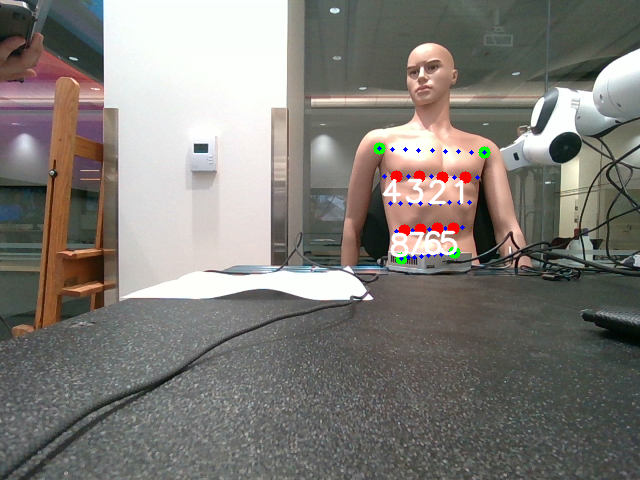
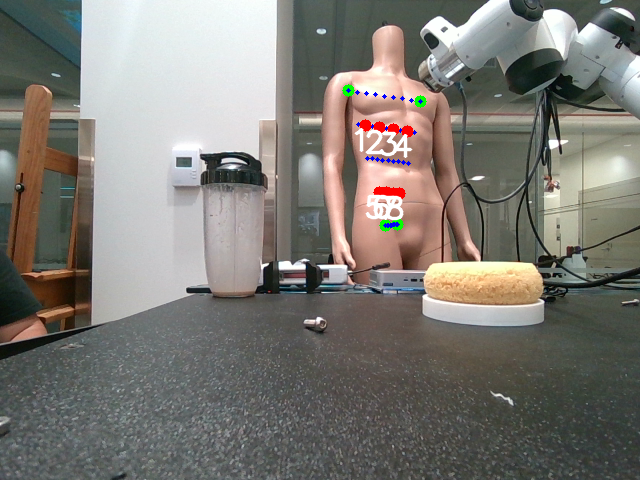
new

diff --git a/utils/scrub_point_3d_translated.py b/utils/scrub_point_3d_translated.py
@@ -1,0 +1,183 @@
+## License: Apache 2.0. See LICENSE file in root directory.
+## Copyright(c) 2015-2017 Intel Corporation. All Rights Reserved.
+
+import time
+import numpy as np
+import cv2
+import pyrealsense2 as rs
+import mediapipe as mp
+import redis
+
+EE_POS_DESIRED_KEY = "sai::controller::ee_pos_desired"
+
+# --- MediaPipe setup ---
+mp_pose = mp.solutions.pose
+pose    = mp_pose.Pose()
+TORSO_LANDMARKS = [
+    mp_pose.PoseLandmark.LEFT_SHOULDER,
+    mp_pose.PoseLandmark.RIGHT_SHOULDER,
+    mp_pose.PoseLandmark.LEFT_HIP,
+    mp_pose.PoseLandmark.RIGHT_HIP
+]
+
+def interpolate_grid(top_left, top_right, bottom_left, bottom_right, n, m):
+    grid = []
+    for i in range(m):
+        v = i/(m-1) if m>1 else 0
+        row = []
+        for j in range(n):
+            u = j/(n-1) if n>1 else 0
+            top    = np.array(top_left)*(1-u) + np.array(top_right)*u
+            bottom = np.array(bottom_left)*(1-u) + np.array(bottom_right)*u
+            pt     = (1-v)*top + v*bottom
+            row.append((pt[0], pt[1]))
+        grid.append(row)
+    return grid
+
+def get_torso_grid_with_depth(num_columns=9, num_rows=5, wait_time=3):
+    # — RealSense setup & alignment —
+    pipeline = rs.pipeline()
+    cfg      = rs.config()
+    cfg.enable_stream(rs.stream.depth, 640, 480, rs.format.z16, 30)
+    cfg.enable_stream(rs.stream.color, 640, 480, rs.format.bgr8, 30)
+    aligner  = rs.align(rs.stream.color)
+    pipeline.start(cfg)
+
+    print(f"Stabilizing... please hold still for {wait_time} seconds")
+    time.sleep(wait_time)
+
+    # grab one good frame
+    while True:
+        frames      = pipeline.wait_for_frames()
+        aligned     = aligner.process(frames)
+        depth_frame = aligned.get_depth_frame()
+        color_frame = aligned.get_color_frame()
+        if depth_frame and color_frame:
+            color_image = np.asanyarray(color_frame.get_data())
+            break
+
+    # get intrinsics for deprojection
+    depth_intrin = depth_frame.profile.as_video_stream_profile().intrinsics
+    pipeline.stop()
+
+    h, w, _ = color_image.shape
+
+    # — MediaPipe pose on color —
+    rgb     = cv2.cvtColor(color_image, cv2.COLOR_BGR2RGB)
+    results = pose.process(rgb)
+    if not results.pose_landmarks:
+        raise RuntimeError("Failed to detect torso landmarks")
+
+    # corner pixel coords
+    coords = {}
+    for lm in TORSO_LANDMARKS:
+        p = results.pose_landmarks.landmark[lm]
+        coords[lm.name] = (p.x * w, p.y * h)
+
+    # full grid
+    grid = interpolate_grid(
+        coords["LEFT_SHOULDER"],
+        coords["RIGHT_SHOULDER"],
+        coords["LEFT_HIP"],
+        coords["RIGHT_HIP"],
+        n=num_columns,
+        m=num_rows
+    )
+
+    # annotate frame
+    frame = color_image.copy()
+    for (x, y) in coords.values():
+        cv2.circle(frame, (int(x), int(y)), 6, (0, 255, 0), -1)
+    for row in grid:
+        for (x, y) in row:
+            cv2.circle(frame, (int(x), int(y)), 2, (255, 0, 0), -1)
+
+    # select subset, deproject, label
+    real_points = []
+    idx = 1
+    for ri in [1, 3]:
+        for ci in [1, 3, 5, 7]:
+            px, py = grid[ri][ci]
+            xi, yi = int(np.clip(px, 0, w-1)), int(np.clip(py, 0, h-1))
+            depth = depth_frame.get_distance(xi, yi)
+            X, Y, Z = rs.rs2_deproject_pixel_to_point(depth_intrin, [xi, yi], depth)
+            real_points.append((X, Y, Z))
+
+            cv2.circle(frame, (xi, yi), 6, (0, 0, 255), -1)
+            cv2.putText(
+                frame,
+                str(idx),
+                (xi - 15, yi + 25),
+                cv2.FONT_HERSHEY_SIMPLEX,
+                1.0,
+                (255, 255, 255),
+                2,
+                cv2.LINE_AA
+            )
+            idx += 1
+
+    # print them immediately
+    print("\n--- RAW 3D POINTS (X, Y, Z) ---")
+    for i, (X, Y, Z) in enumerate(real_points, start=1):
+        print(f"{i}: ({X:.3f}, {Y:.3f}, {Z:.3f})")
+
+    # save annotated image
+    img_path = "torso_grid_labeled.png"
+    cv2.imwrite(img_path, frame)
+    print(f"[get_torso] 🖼 Saved annotated image to '{img_path}'")
+
+    return real_points
+
+def transform_points(points):
+    """
+    Rotate each (X,Y,Z) by:
+      1) 90° about X
+      2) 180° about Z
+    """
+    θ1 = np.pi/2
+    Rx1 = np.array([
+        [1,            0,             0],
+        [0, np.cos(θ1), -np.sin(θ1)],
+        [0, np.sin(θ1),  np.cos(θ1)]
+    ])
+    θ2 = np.pi
+    Rx2 = np.array([
+        [np.cos(θ2), -np.sin(θ2),           0],
+        [np.sin(θ2),  np.cos(θ2), 0],
+        [0, 0, 1]
+    ])
+    R =  Rx1 @ Rx2
+
+    return [tuple((R @ np.array(p)).tolist()) for p in points]
+
+def publish_all_xyz_as_list(points, host="localhost", port=6379, db=0):
+    if not points:
+        print("[publish] ⚠ no points to publish")
+        return
+    try:
+        r = redis.Redis(host=host, port=port, db=db, socket_timeout=2)
+        # clear old list
+        r.delete(EE_POS_DESIRED_KEY)
+        for i, (X, Y, Z) in enumerate(points, start=1):
+            val = f"{X:.6f} {Y:.6f} {Z:.6f}"
+            print(f"[publish] ▶ pushing {EE_POS_DESIRED_KEY}[{i}] = '{val}'")
+            r.rpush(EE_POS_DESIRED_KEY, val)
+    except Exception as e:
+        print(f"[publish] ❌ ERROR: {e}")
+
+if __name__ == "__main__":
+    # 1) Capture raw torso points
+    raw_pts = get_torso_grid_with_depth()
+
+    # 2) Rotate them
+    rotated_pts = transform_points(raw_pts)
+
+    # 3) Save **all** rotated points to file
+    txt_path = "torso_points_transformed.txt"
+    with open(txt_path, "w") as f:
+        for i, (X, Y, Z) in enumerate(rotated_pts, start=1):
+            f.write(f"{i}: {X:.6f} {Y:.6f} {Z:.6f}\n")
+    print(f"[main] 💾 Saved all transformed points to '{txt_path}'")
+
+    # 4) Push **all** points into Redis list
+    publish_all_xyz_as_list(rotated_pts)
